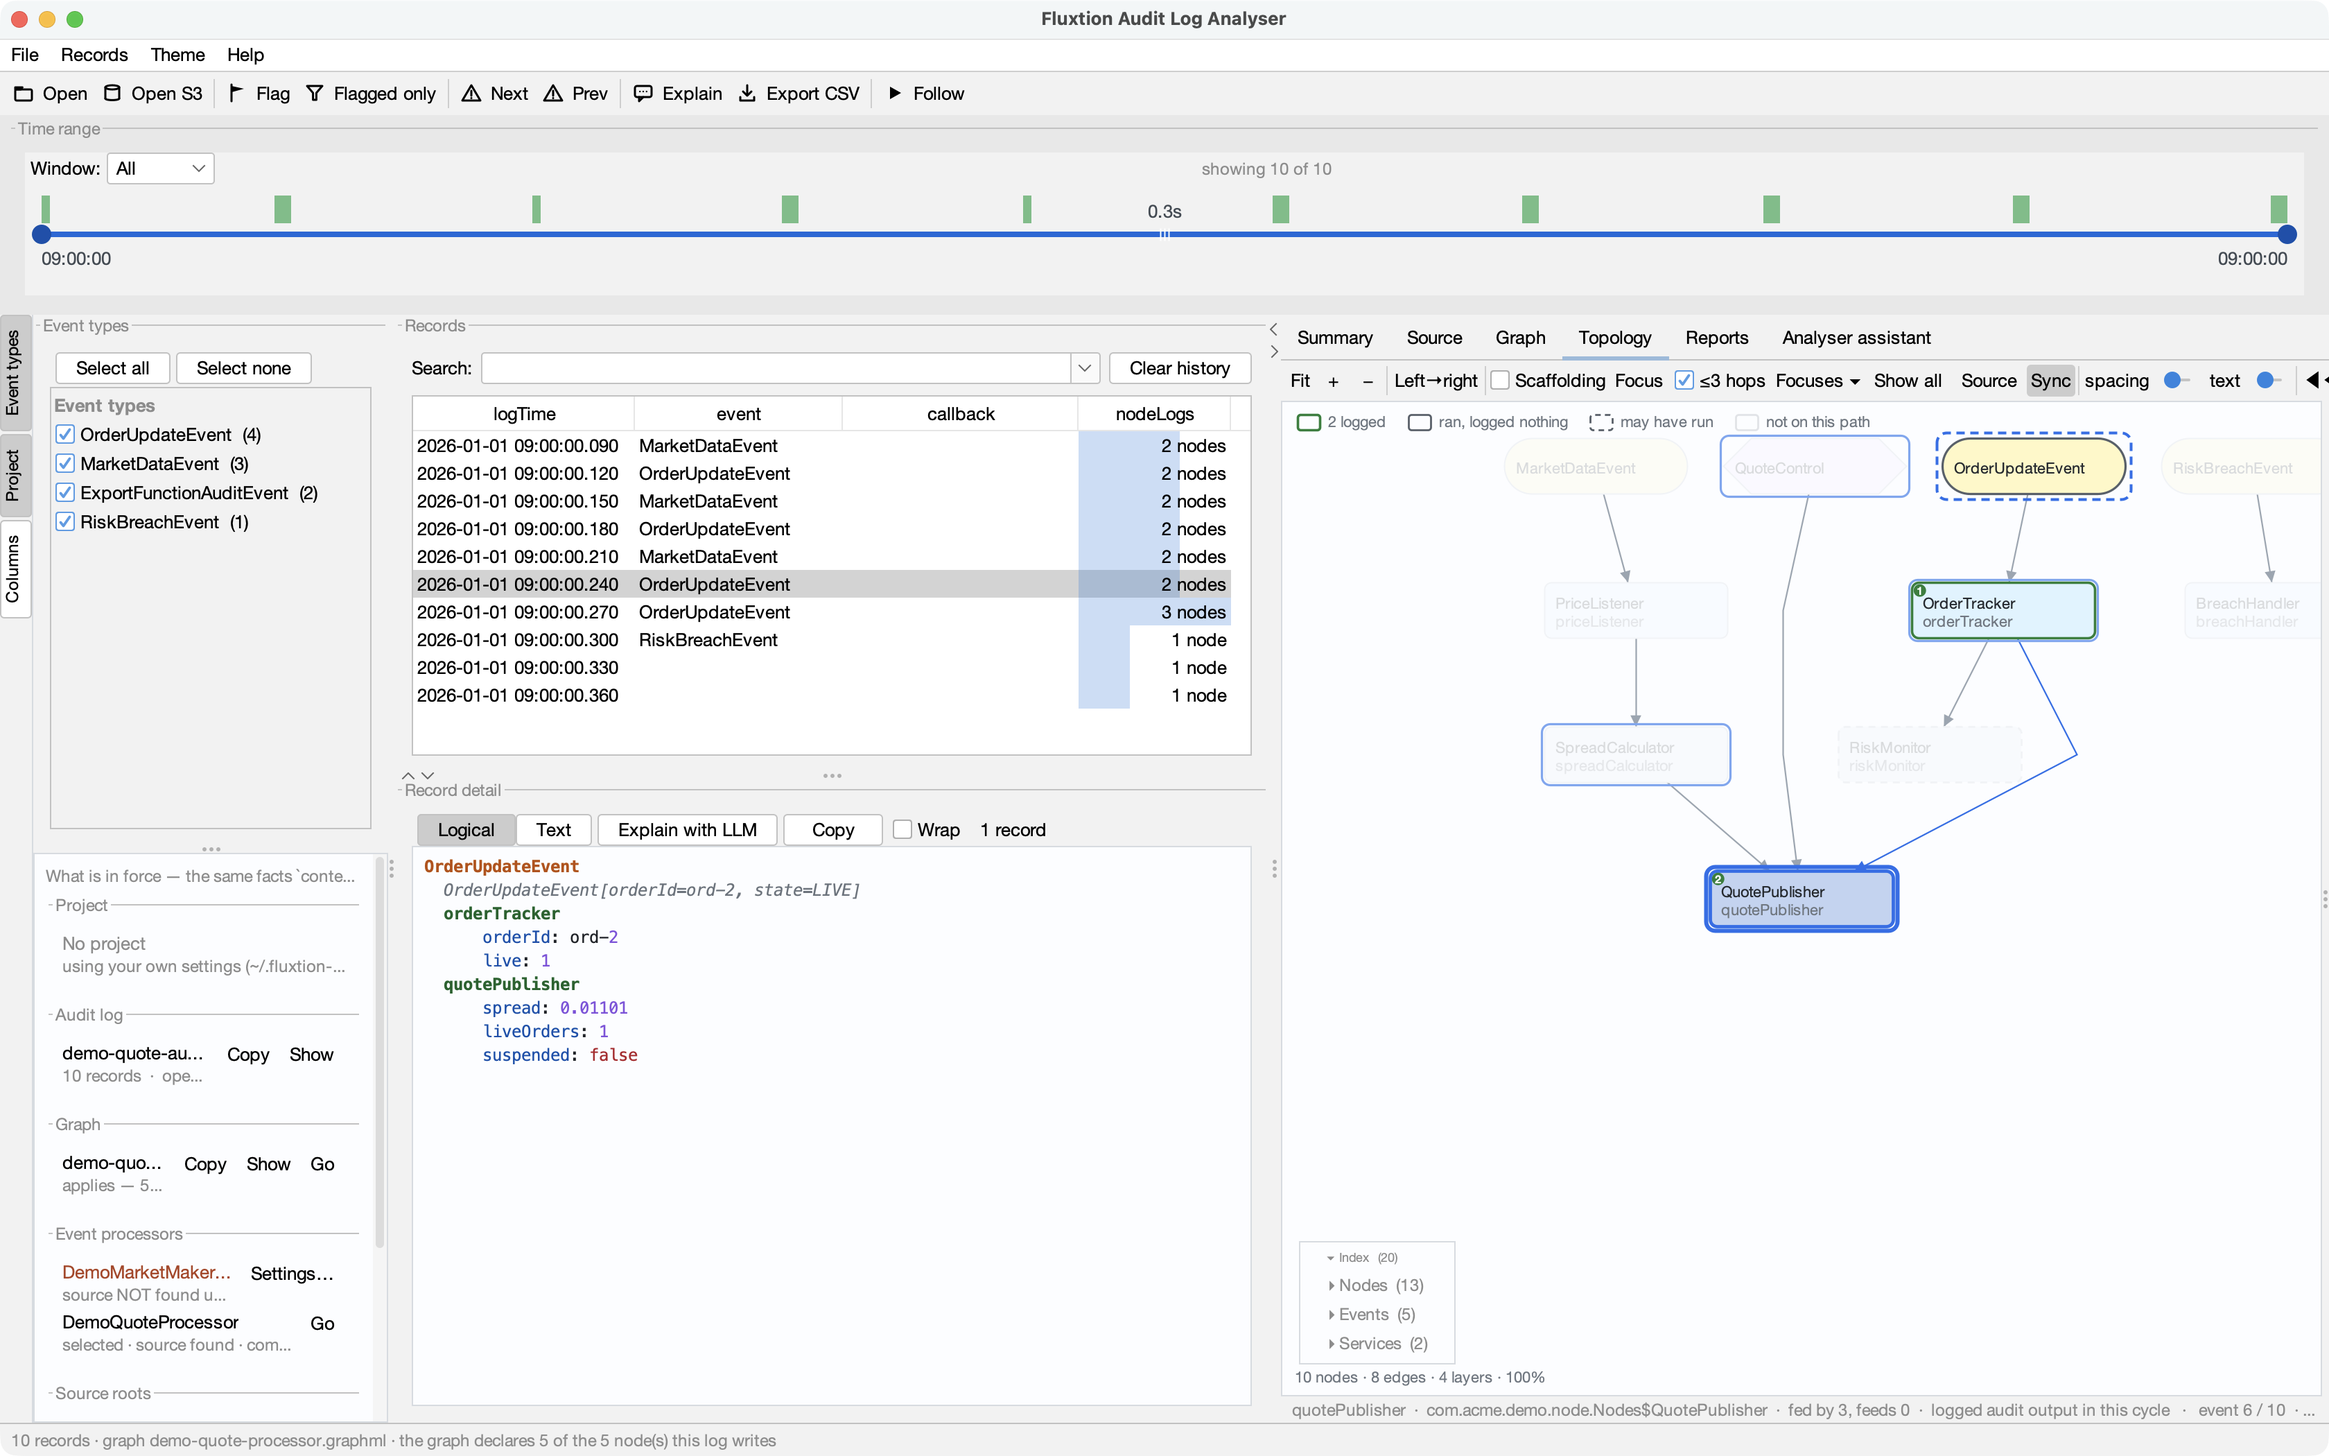
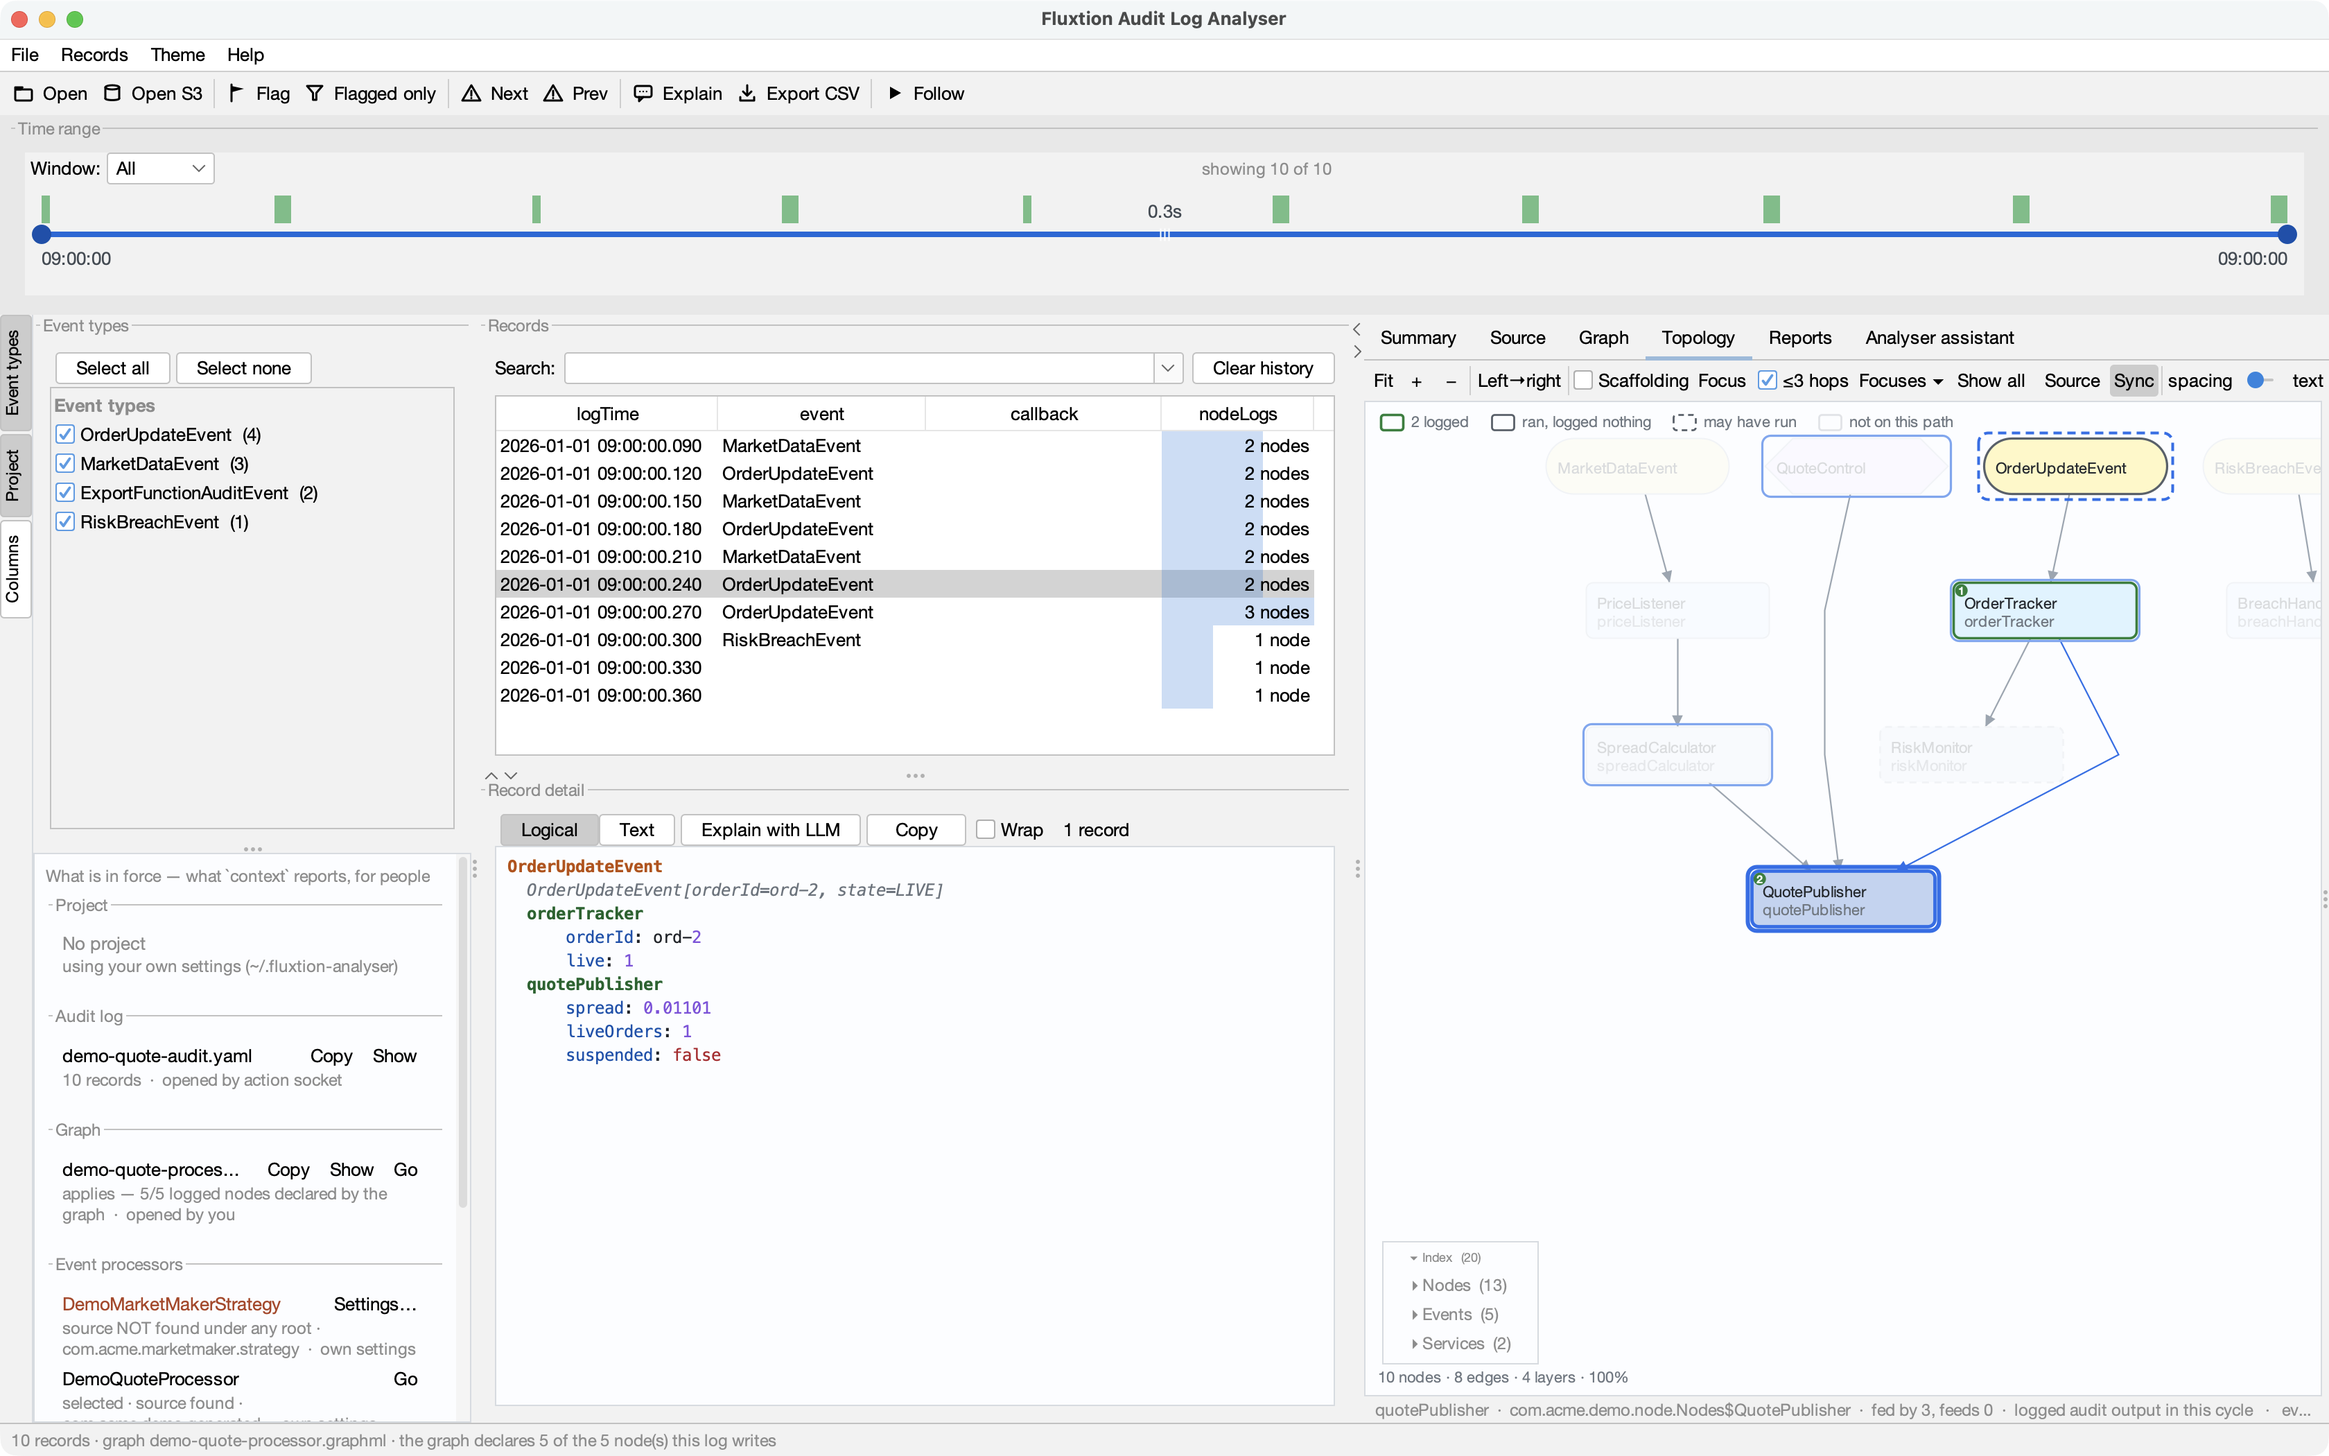
fix(project-panel): review F2 — sentences wrap, paths elide; the panel opens at the top
At the default 280px the panel elided the verdicts it exists to state ("applies — 5…", "source NOT found u…").
D-L8's elision was written for paths, where head and tail carry the meaning; a row's second line is a
SENTENCE whose tail carries it. So: the second line is a wrapping text area spanning the full row under
the buttons, the first line still elides (paths and names, with Copy and the tooltip), and the default
column is 340px. Two side effects found live and fixed: a fresh text area asks its viewport to show its
caret, which scrolled the whole panel to its bottom on every lifecycle event (caret policy set BEFORE the
text; scroll position preserved across renders); and the project root — a path — now goes through
abbreviate() since the line no longer does. The runbook pointer moved to the wrapping line.

Also from the review: ConfigPanel.show(…, page) — the panel's Settings… buttons open the page the row is
about (owner found the Reports row landing on Source roots).

883 green. Shots regenerated under the isolated home at the new width and read (project-panel,
projects-active, screenshot-dark).

diff --git a/src/main/java/telamin/fluxtion/audit/analyser/analyser/ui/ProjectPanel.java b/src/main/java/telamin/fluxtion/audit/analyser/analyser/ui/ProjectPanel.java
@@ -27,6 +27,7 @@ public final class ProjectPanel extends JPanel {
 
     private final Navigator navigator;
     private final JPanel body = new TracksWidth();
+    private JScrollPane scroll;
     private ProjectModel model = ProjectModel.from(null);
 
     public ProjectPanel(Navigator navigator) {
@@ -34,7 +35,7 @@ public final class ProjectPanel extends JPanel {
         this.navigator = navigator;
         body.setLayout(new BoxLayout(body, BoxLayout.Y_AXIS));
         body.setBorder(UiTheme.pad());
-        JScrollPane scroll = new JScrollPane(body, ScrollPaneConstants.VERTICAL_SCROLLBAR_AS_NEEDED,
+        scroll = new JScrollPane(body, ScrollPaneConstants.VERTICAL_SCROLLBAR_AS_NEEDED,
                 ScrollPaneConstants.HORIZONTAL_SCROLLBAR_NEVER);
         scroll.setBorder(BorderFactory.createEmptyBorder());
         scroll.getVerticalScrollBar().setUnitIncrement(16);
@@ -51,9 +52,13 @@ public final class ProjectPanel extends JPanel {
     /** Replace what is shown. Called on every lifecycle event by whoever owns the facts (D-L6). */
     public void render(ProjectModel m) {
         this.model = m == null ? ProjectModel.from(null) : m;
+        // a re-render must not move the user's eye: keep where they had scrolled to (the first live shots
+        // showed the panel jumping to its bottom on every lifecycle event — the new text areas dragged the
+        // viewport to their caret)
+        final int scrolledTo = scroll == null ? 0 : scroll.getVerticalScrollBar().getValue();
         body.removeAll();
         // review N4: the toggle says "Project"; the panel also states what is merely in force
-        JLabel caption = new JLabel("What is in force — the same facts `context` reports");
+        JLabel caption = new JLabel("What is in force — what `context` reports, for people");
         UiTheme.status(caption);
         caption.setAlignmentX(LEFT_ALIGNMENT);
         caption.setBorder(BorderFactory.createEmptyBorder(0, 0, UiTheme.GAP, 0));
@@ -71,36 +76,30 @@ public final class ProjectPanel extends JPanel {
         body.add(Box.createVerticalGlue());
         body.revalidate();
         body.repaint();
+        // after the deferred layout has run — two hops, because revalidate itself is deferred one
+        if (scroll != null) SwingUtilities.invokeLater(() -> SwingUtilities.invokeLater(
+                () -> scroll.getVerticalScrollBar().setValue(scrolledTo)));
     }
 
     private JComponent row(ProjectModel.Row r) {
-        JPanel line = new JPanel(new BorderLayout(UiTheme.GAP, 0));
-        line.setOpaque(false);
-        line.setAlignmentX(LEFT_ALIGNMENT);
-        line.setBorder(BorderFactory.createEmptyBorder(2, 0, 2, 0));
+        // two lines: [name/path ..................... buttons] over a full-width sentence. The sentence used to
+        // sit beside the buttons and wrapped into a five-line sliver (review F2, second look).
+        JPanel row = new JPanel();
+        row.setLayout(new BoxLayout(row, BoxLayout.Y_AXIS));
+        row.setOpaque(false);
+        row.setAlignmentX(LEFT_ALIGNMENT);
+        row.setBorder(BorderFactory.createEmptyBorder(2, 0, 3, 0));
 
-        JPanel text = new JPanel();
-        text.setLayout(new BoxLayout(text, BoxLayout.Y_AXIS));
-        text.setOpaque(false);
-        // C4: draw the abbreviated form; the full value is the tooltip and what Copy copies
+        JPanel head = new JPanel(new BorderLayout(UiTheme.GAP, 0));
+        head.setOpaque(false);
+        head.setAlignmentX(LEFT_ALIGNMENT);
+        // C4/D-L8: draw the abbreviated form; the full value is the tooltip and what Copy copies
         JLabel primary = new JLabel(r.primary() == null ? "?" : ProjectModel.abbreviate(r.primary()));
         primary.setMinimumSize(new Dimension(40, primary.getPreferredSize().height));   // let the row shrink; JLabel elides
         if (r.tone() == ProjectModel.Tone.MUTED) primary.setForeground(UiTheme.mutedForeground());
         if (r.tone() == ProjectModel.Tone.WARN) primary.setForeground(new Color(0xB0, 0x40, 0x20));
-        primary.setAlignmentX(LEFT_ALIGNMENT);
-        text.add(primary);
-        String sub = ProjectModel.abbreviate(r.secondary());
-        if (r.provenance() != null) sub = (sub == null || sub.isBlank() ? "" : sub + "  ·  ") + r.provenance();
-        if (sub != null && !sub.isBlank()) {
-            JLabel secondary = new JLabel(sub);
-            UiTheme.status(secondary);
-            secondary.setAlignmentX(LEFT_ALIGNMENT);
-            text.add(secondary);
-        }
-        String tip = r.path() != null ? r.path() : r.primary();
-        primary.setToolTipText(tip);
-        text.setMinimumSize(new Dimension(40, 10));
-        line.add(text, BorderLayout.CENTER);
+        primary.setToolTipText(r.path() != null ? r.path() : r.primary());
+        head.add(primary, BorderLayout.CENTER);
 
         JPanel actions = new JPanel(new FlowLayout(FlowLayout.RIGHT, 2, 0));
         actions.setOpaque(false);
@@ -119,9 +118,34 @@ public final class ProjectPanel extends JPanel {
             case SETTINGS_ASSISTANT -> actions.add(small("Settings…", "Settings ▸ Assistant", () -> navigator.openSettings("Assistant")));
             default -> { }
         }
-        if (actions.getComponentCount() > 0) line.add(actions, BorderLayout.EAST);
-        line.setMaximumSize(new Dimension(Integer.MAX_VALUE, line.getPreferredSize().height));
-        return line;
+        if (actions.getComponentCount() > 0) head.add(actions, BorderLayout.EAST);
+        head.setMaximumSize(new Dimension(Integer.MAX_VALUE, head.getPreferredSize().height));
+        row.add(head);
+
+        // Review F2: the second line is a SENTENCE — the pairing verdict, "source NOT found", the tier — whose
+        // tail carries the meaning, so it WRAPS across the full row. Elision (D-L8) stays for the first line.
+        String sub = r.secondary();
+        if (r.provenance() != null) sub = (sub == null || sub.isBlank() ? "" : sub + "  ·  ") + r.provenance();
+        if (sub != null && !sub.isBlank()) {
+            JTextArea secondary = new JTextArea();
+            // a text area asks its viewport to show its caret when its text changes — scheduled on the EDT, so
+            // it fires AFTER the area is in the scroll pane and drags the whole panel to wherever that area
+            // is (the first live shots opened scrolled to the bottom). Policy first, then the text.
+            if (secondary.getCaret() instanceof javax.swing.text.DefaultCaret dc) dc.setUpdatePolicy(javax.swing.text.DefaultCaret.NEVER_UPDATE);
+            secondary.setText(sub);
+            secondary.setEditable(false);
+            secondary.setFocusable(false);
+            secondary.setOpaque(false);
+            secondary.setLineWrap(true);
+            secondary.setWrapStyleWord(true);
+            secondary.setBorder(BorderFactory.createEmptyBorder(0, 0, 0, 0));
+            secondary.setFont(UIManager.getFont("Label.font").deriveFont(UIManager.getFont("Label.font").getSize2D() - 1f));
+            secondary.setForeground(UiTheme.mutedForeground());
+            secondary.setAlignmentX(LEFT_ALIGNMENT);
+            row.add(secondary);
+        }
+        row.setMaximumSize(new Dimension(Integer.MAX_VALUE, Short.MAX_VALUE));
+        return row;
     }
 
     /**

diff --git a/src/main/java/telamin/fluxtion/audit/analyser/analyser/ui/ProjectModel.java b/src/main/java/telamin/fluxtion/audit/analyser/analyser/ui/ProjectModel.java
@@ -52,7 +52,8 @@ public record ProjectModel(List<Section> sections) {
         Map<String, Object> proj = map(ctx.get("project"));
         List<Row> rows = new ArrayList<>();
         if (Boolean.TRUE.equals(proj.get("active"))) {
-            rows.add(new Row(str(proj.get("name")), str(proj.get("root")), str(proj.get("settings")),
+            // the root is a PATH: abbreviated here (D-L8), because the second line otherwise wraps the full thing
+            rows.add(new Row(str(proj.get("name")), abbreviate(str(proj.get("root"))), str(proj.get("settings")),
                     "project settings in force", Tone.NORMAL, Target.PROJECT));
         } else {
             rows.add(new Row("No project", "using your own settings (~/.fluxtion-analyser)", null, null,
@@ -64,8 +65,9 @@ public record ProjectModel(List<Section> sections) {
             Map<String, Object> r = map(o);
             boolean known = r.get("exists") != null;
             boolean exists = Boolean.TRUE.equals(r.get("exists"));
-            rows.add(new Row(r.get("name") + " runbook: " + r.get("path"),
-                    known && !exists ? "file NOT found under the project root" : "a pointer into the repository — never contents",
+            // the pointer goes on the WRAPPING line, where it is read whole; the eliding first line holds the name
+            rows.add(new Row(r.get("name") + " runbook",
+                    r.get("path") + (known && !exists ? " — file NOT found under the project root" : " — a pointer into the repository, never contents"),
                     str(r.get("resolved")), str(r.get("from")), known && !exists ? Tone.WARN : Tone.NORMAL, Target.NONE));
         }
         out.add(new Section(PROJECT, rows));

diff --git a/src/test/java/telamin/fluxtion/audit/analyser/analyser/ui/ProjectModelTest.java b/src/test/java/telamin/fluxtion/audit/analyser/analyser/ui/ProjectModelTest.java
@@ -193,12 +193,13 @@ class ProjectModelTest {
                 Map.of("name", "restart", "path", "ops/restart.md", "resolved", "/work/demo/ops/restart.md", "exists", false, "from", "project")));
         List<ProjectModel.Row> rows = ProjectModel.from(ctx).section(ProjectModel.PROJECT).rows();
         assertEquals(3, rows.size(), "the project row, then one row per pointer (D-C7)");
-        assertEquals("deploy runbook: ops/deploy.md", rows.get(1).primary(), "drawn as the profile holds it — a relative pointer");
+        assertEquals("deploy runbook", rows.get(1).primary());
         assertEquals("/work/demo/ops/deploy.md", rows.get(1).path(), "Copy/Show act on where it lands here");
-        assertEquals("a pointer into the repository — never contents", rows.get(1).secondary());
+        assertEquals("ops/deploy.md — a pointer into the repository, never contents", rows.get(1).secondary(),
+                "the pointer is drawn as the profile holds it, on the line that wraps rather than elides");
         assertEquals(ProjectModel.Target.NONE, rows.get(1).target(), "nothing on the panel runs it");
         assertEquals(ProjectModel.Tone.WARN, rows.get(2).tone());
-        assertEquals("file NOT found under the project root", rows.get(2).secondary());
+        assertEquals("ops/restart.md — file NOT found under the project root", rows.get(2).secondary());
     }
 
     @Test

diff --git a/src/main/java/telamin/fluxtion/audit/analyser/analyser/config/AppConfig.java b/src/main/java/telamin/fluxtion/audit/analyser/analyser/config/AppConfig.java
@@ -45,8 +45,8 @@ public final class AppConfig {
     public boolean projectPanelCollapsed = false;
     /** M37: divider of the west column's vertical split (Event types above, Project below); -1 = never dragged. */
     public int westDivider = -1;
-    /** M37: width of the whole west column (rail + panels) — the user drags it; 280 fits paths and class names. */
-    public int westWidth = 280;
+    /** M37: width of the whole west column (rail + panels) — the user drags it. 340 (review F2): at 280 the panel elided the verdicts it exists to state. */
+    public int westWidth = 340;
 
     /**
      * Topology display preferences: layout spacing as a percentage, and label point size.

diff --git a/docs/specs/spec-loaded-panel.md b/docs/specs/spec-loaded-panel.md
@@ -122,7 +122,9 @@ the log itself declares. When a reader TRIED to supply a graph and could not, `s
 Support screenshot this application (review C4; `docs/site/support.md`), and this panel is by
 construction the most path- and name-dense surface in it — default shown. So the drawn form is
 abbreviated: `$HOME` becomes `~`, a long path keeps its head and last two segments with the middle
-elided (`ProjectModel.abbreviate`), and the full value lives behind *Copy path* and the tooltip. Rule 1
+elided (`ProjectModel.abbreviate`), and the full value lives behind *Copy path* and the tooltip. **Elision is
+for paths and names only** (review F2): a row's second line is a sentence — the pairing verdict, *source NOT
+found*, the tier — whose tail carries the meaning, so it wraps instead. The default column width is 340px. Rule 1
 cannot see inside an image; this narrows what an incidental screenshot carries, and a column of full
 paths was unreadable at the west rail's width anyway.
 
